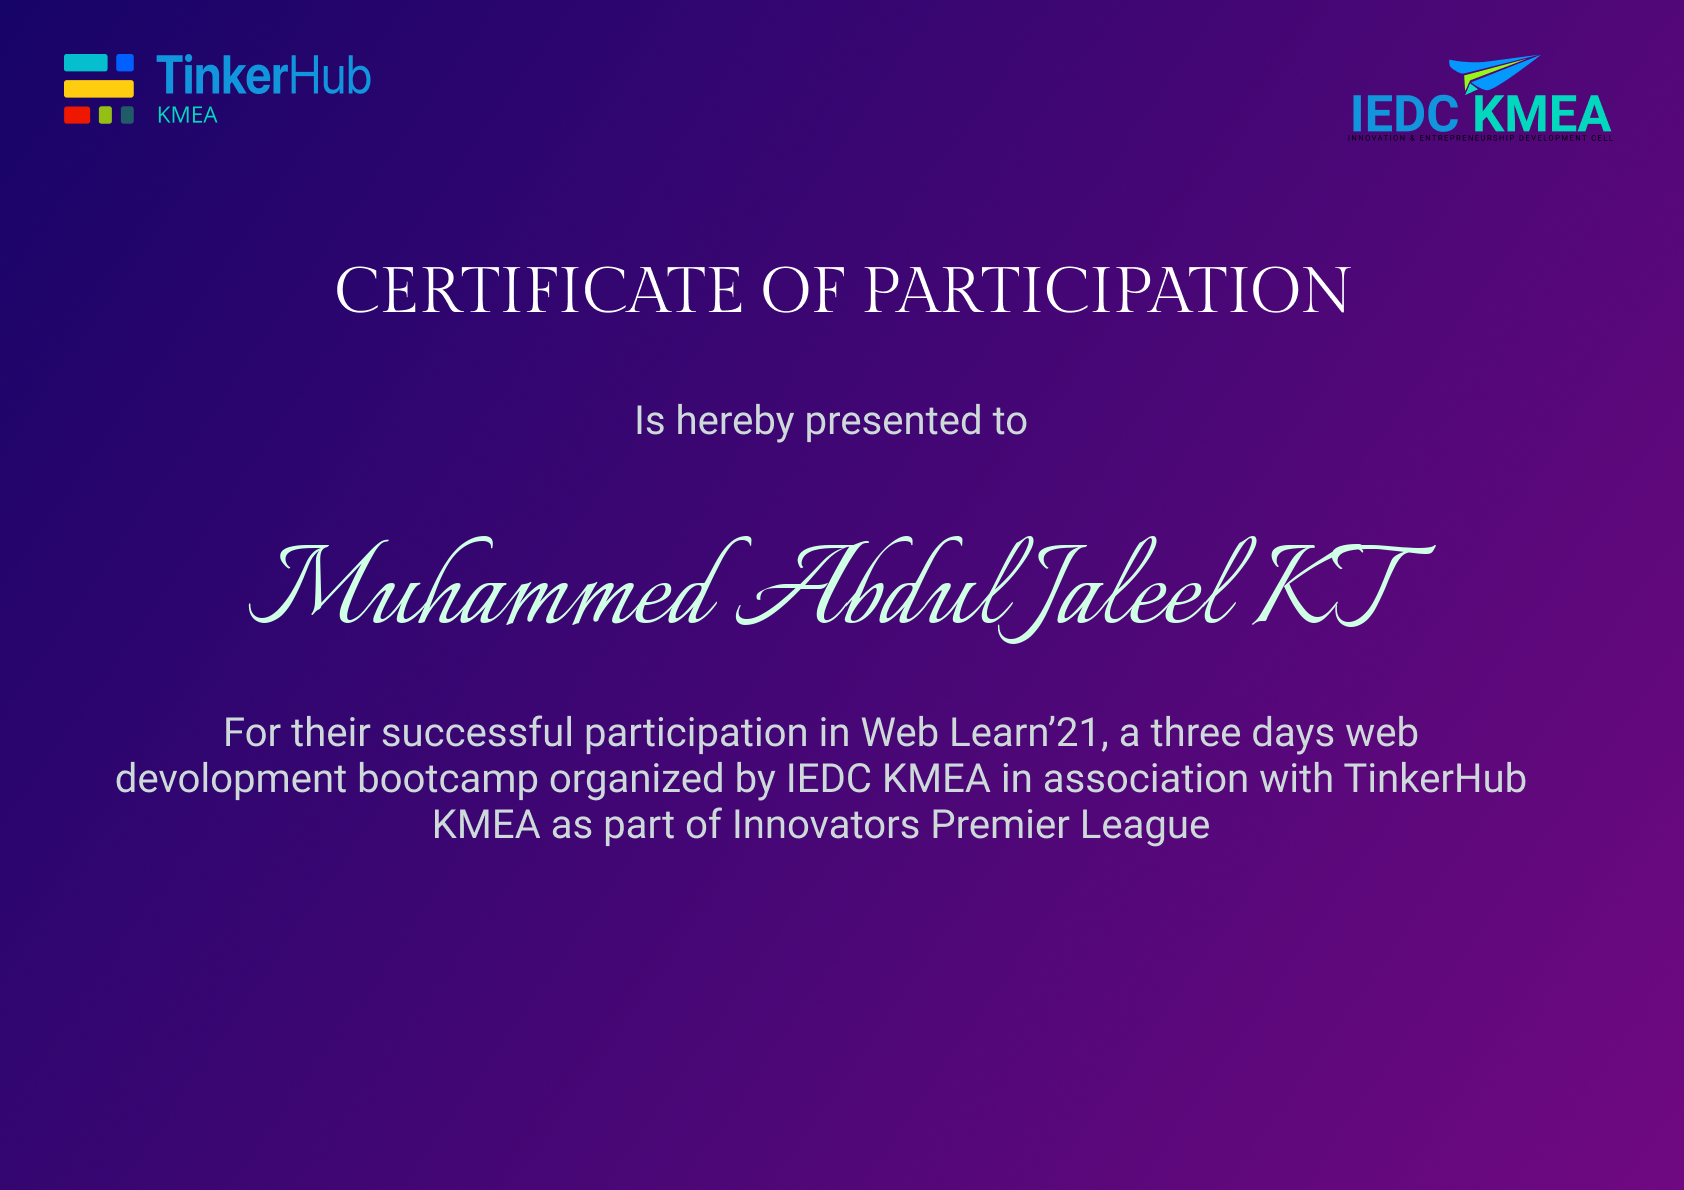
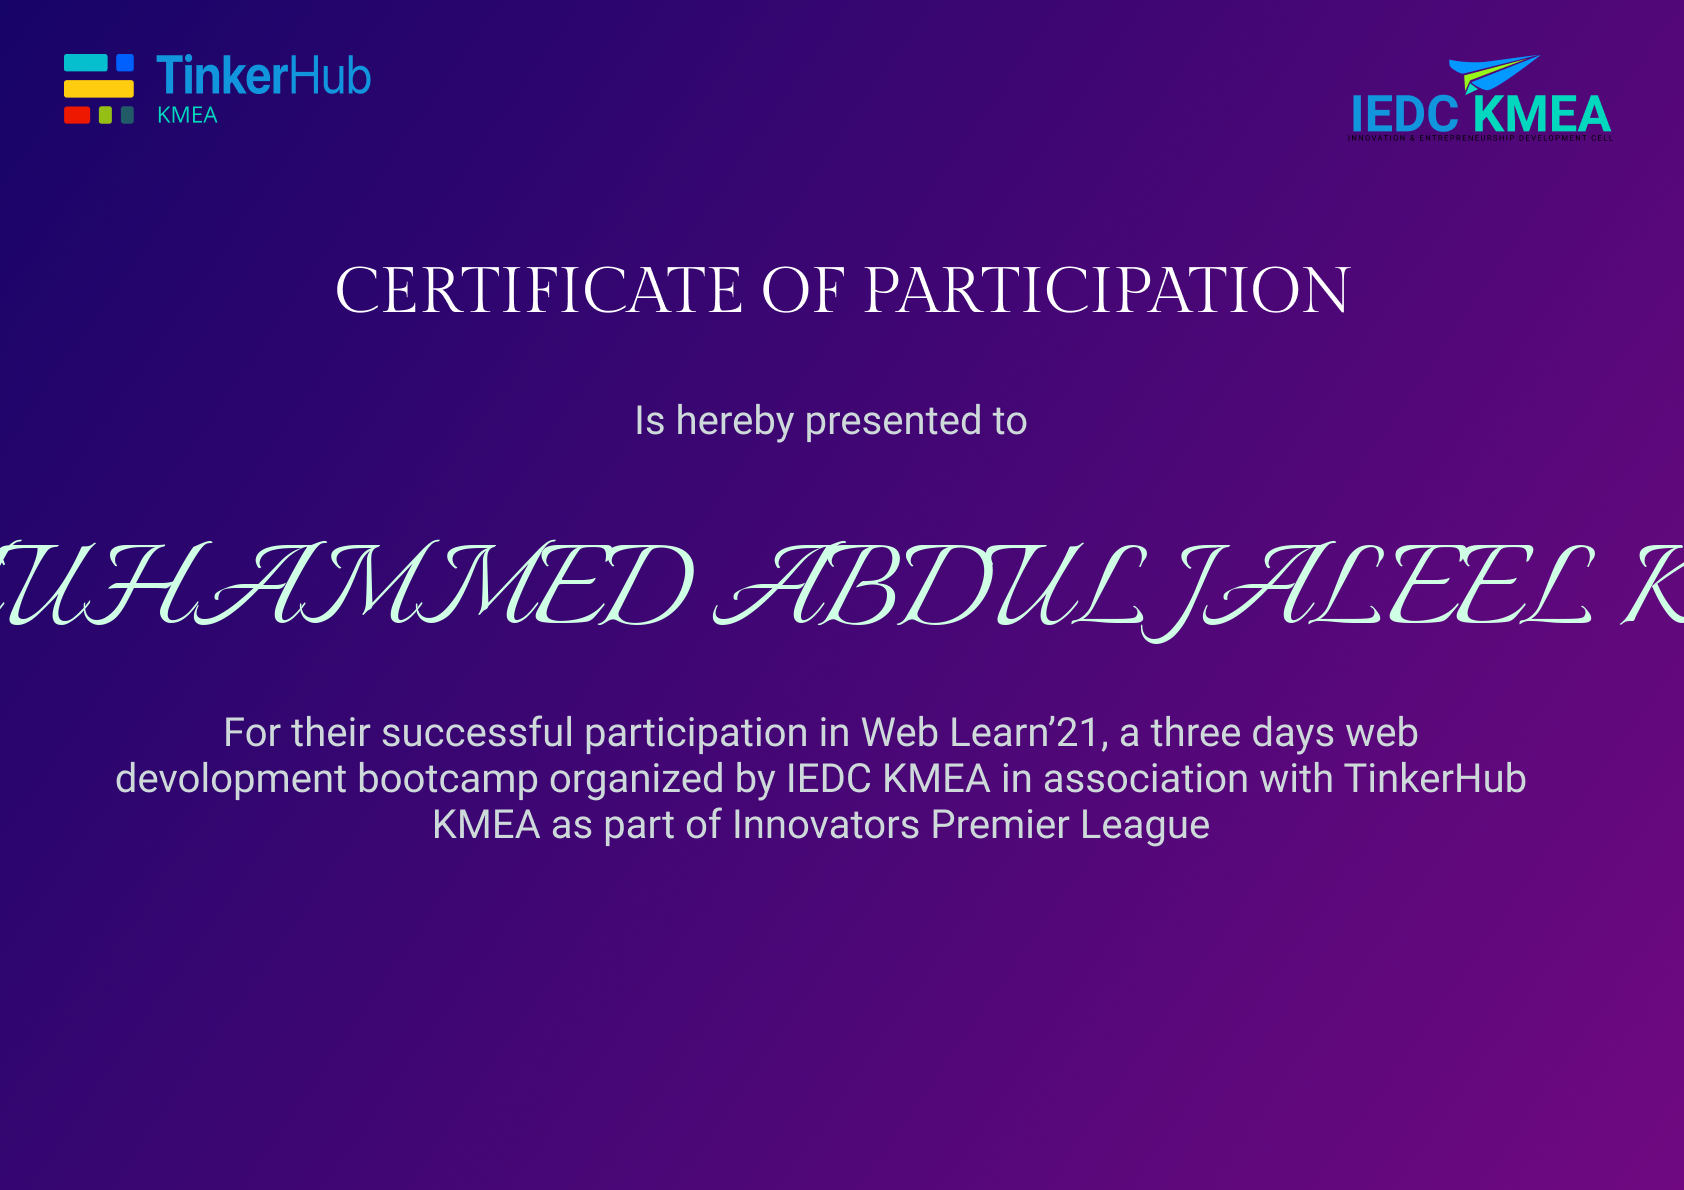
Added some input checking

Changed region(s): [[0.0, 0.4353, 1.0, 0.5597]]

diff --git a/main.py b/main.py
@@ -1,16 +1,20 @@
 from PIL import Image, ImageDraw, ImageFont
 import pandas as pd
-
 cx = 843
 cy = 577
 df = pd.read_csv('list.csv')
 font = ImageFont.truetype('italianno.ttf',140)
 fill = (207,255,229) 
-for index,j in df.iterrows():
+for j in df.iterrows():
     image = Image.open('template.png')
     canvas = ImageDraw.Draw(image)
-    name = j['name']
+
+    person = j['name']
+    if person.isupper(): # if the person has entered their name
+        continue         # in full uppercase, we skip their 
+                         # name to manually process it later.
+
     email = j['email']
-    w, h = font.getsize(name)
-    canvas.text(xy = ( cx - w/2, cy - h/2), text=f'{name}', fill=fill, font=font)
+    w, h = font.getsize(person)
+    canvas.text(xy = ( cx - w/2, cy - h/2), text=f'{person}', fill=fill, font=font)
     image.save(f'generated-certificates/{email}.png')
